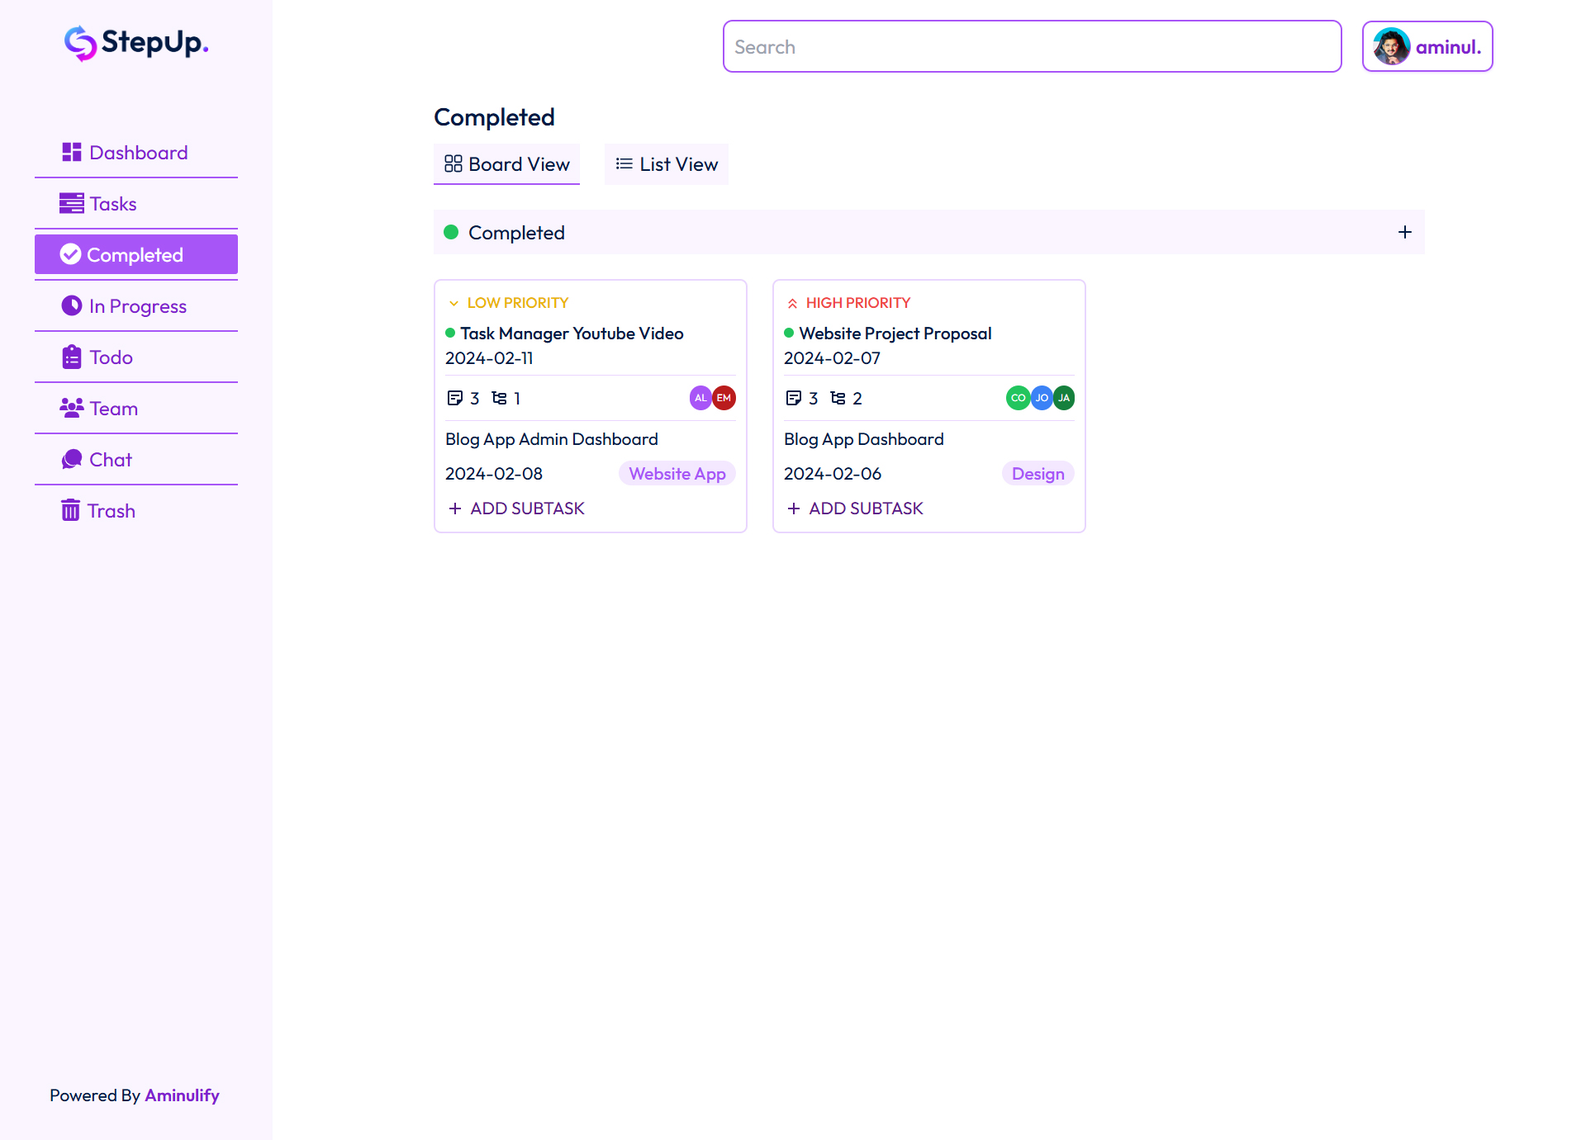
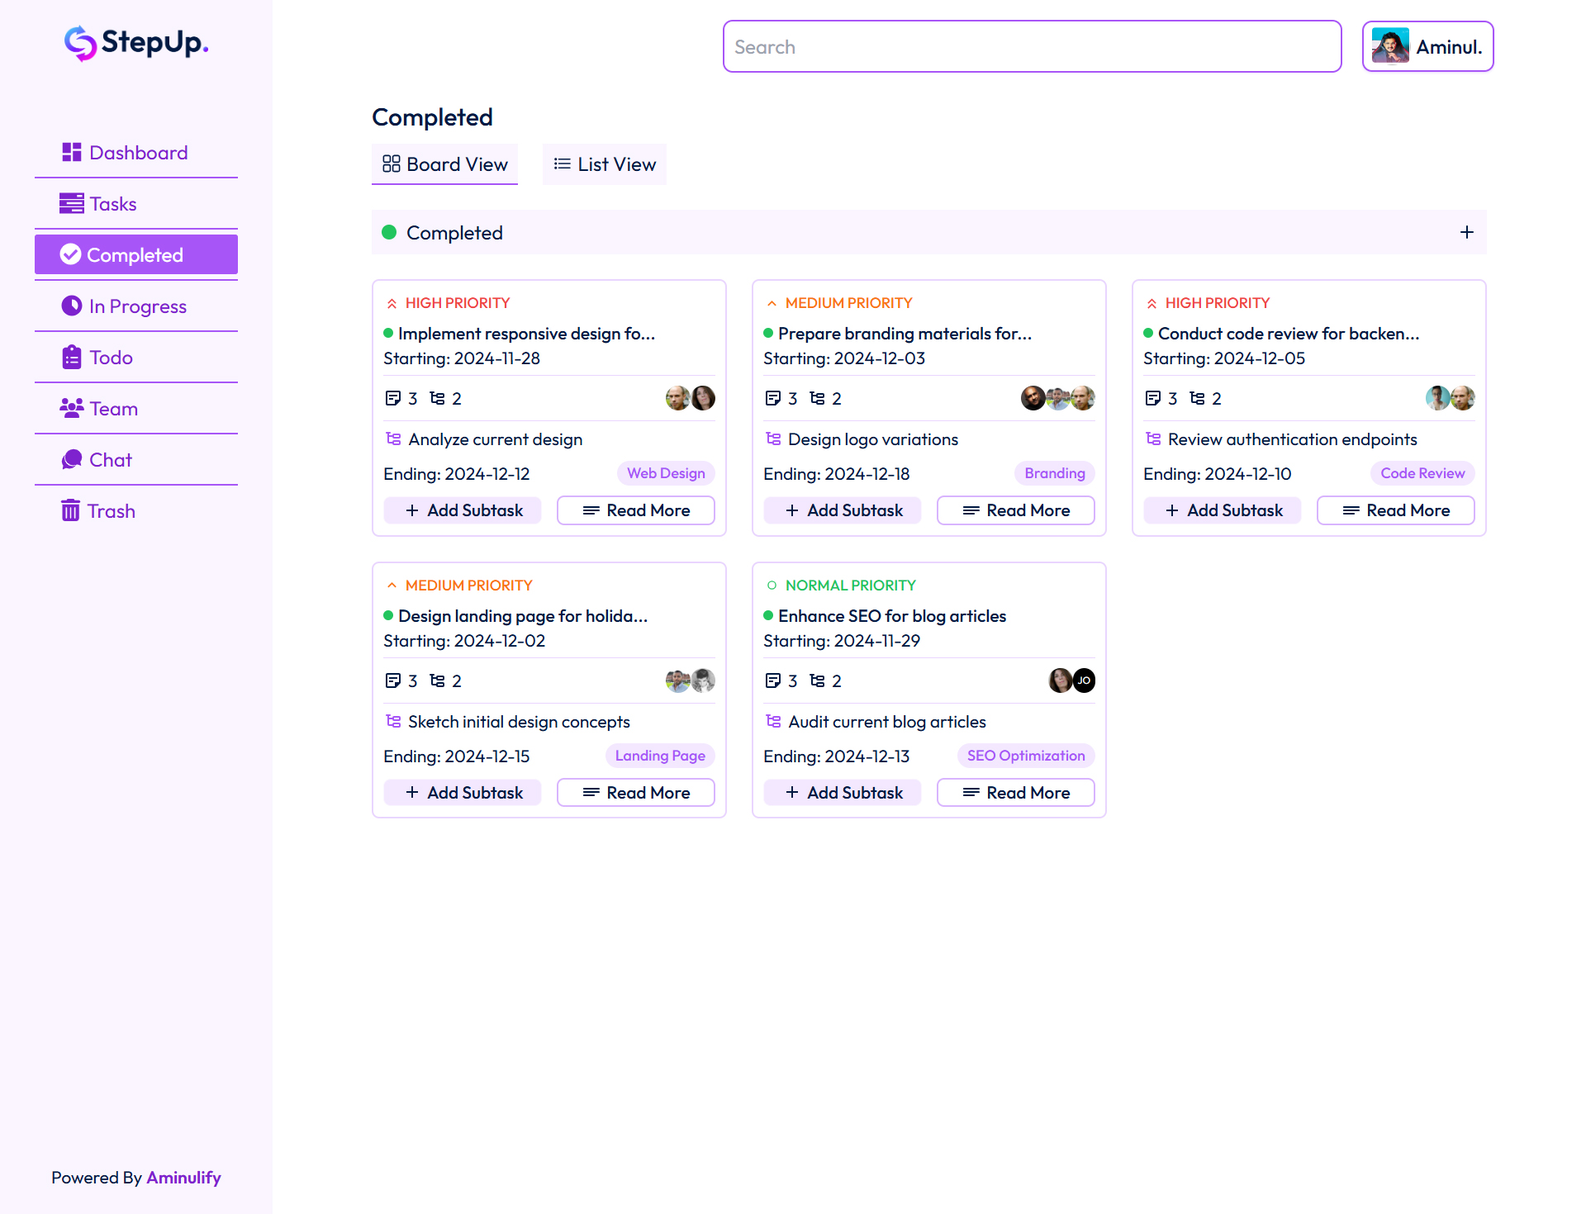
update stages and solve some ui lakes

diff --git a/client/src/Dashboard Pages/CreateTask.jsx b/client/src/Dashboard Pages/CreateTask.jsx
@@ -1,18 +1,83 @@
-import React, { useContext } from 'react';
+import React, { useContext, useEffect, useState } from 'react';
 import { AuthContext } from '../AuthProvider/AuthProvider';
+import axios from 'axios';
 
 const CreateTask = ({setModal}) => {
     const {user} = useContext(AuthContext);
-    console.log(user);
+    const [teamMember, setTeamMember] = useState([]);
+    const [selectEmail, setSelectEmail] = useState([]);
+    const [taskPrioirty, setTaskPrioirty] = useState('high');
+    const [taskStage, setTaskStage] = useState('todo');
+    console.log(selectEmail);
+    const [filteredTeamMemberEmail, setFilteredTeamMemberEmail] = useState([]);
+    // console.log(filteredTeamMemberEmail);
+
+    const handleCheckboxChange = (e) =>{
+        const {value, checked} = e.target;
+
+        // console.log(value, checked);
+
+        axios.get('http://localhost:3000/api/user-data')
+        .then(res => {
+            const data = res.data;
+            // console.log(data);
+            const teamMemberEmailFilter = data.filter(memberEmail => memberEmail.email === value);
+            setFilteredTeamMemberEmail(teamMemberEmailFilter);
+        })
+
+
+        if(checked){
+            const data = {_id: filteredTeamMemberEmail[0]._id, email: filteredTeamMemberEmail[0].email, username: filteredTeamMemberEmail[0].username, role: filteredTeamMemberEmail[0].role, imgURL: filteredTeamMemberEmail[0].imageURL || ''};
+            setSelectEmail([...selectEmail, data]);
+        }
+        else{
+            setSelectEmail(selectEmail.filter(option => option.email !== value))
+        }
+    }
+
+    const handleCreateTask = (e) =>{
+        e.preventDefault();
+        const form = e.target;
+        const title = form.title.value;
+        const startingDate = form.startingDate.value;
+        const endingDate = form.endingDate.value;
+        const noteText = [form.noteText.value];
+        const subTask = [form.subTask.value];
+        const tags = form.tags.value;
+        const prioirty = taskPrioirty;
+        const stage = taskStage;
+        const teamMember = selectEmail;
+        const adminEmail = user.email;
+        const description = form.description.value;
+
+        const value = {adminEmail, title, startingDate, endingDate, taskPrioirty: prioirty, notes: noteText, stage, teamMember, tags, description, subTasks: subTask};
+        console.log(value);
+    }
+
+    useEffect(()=>{
+        axios.get('http://localhost:3000/api/user-data')
+        .then(res => {
+            const data = res.data;
+            const teamFilter = data.filter(member => member.adminEmail === user.email);
+            if(teamFilter){
+                setTeamMember(teamFilter);
+            }
+        })
+        .catch(e => console.log(e))
+    },[])
     return (
         <section className='top-10 w-screen h-screen z-[40] fixed left-0 drop-shadow-xl shadow-purple-500'>
             
                 <div className='md:w-[500px] w-[90%] md:h-[500px] h-[650px] absolute left-[50%] translate-x-[-50%] text-[var(--primaryFontColor)] p-10 rounded-lg mt-5] bg-white overflow-y-auto mt-10'>
                     <h2 className='text-center font-bold text-2xl'>Create New Task</h2>
-                    <form className='flex flex-col gap-3 mt-2'>
+                    <form onSubmit={handleCreateTask} className='flex flex-col gap-3 mt-2'>
                         <div>
                             <label>Title:</label>
                             <input type="text" className='w-full p-2 outline-none border-[1.2px] border-purple-500 rounded-md' placeholder='Task title here' name="title" required/>
+                        </div>
+                        <div>
+                            <label>Description:</label>
+                            <textarea rows={3} className='w-full p-2 outline-none border-[1.2px] border-purple-500 rounded-md' placeholder='Task description here...' name="description" required/>
                         </div>
                         <div className='flex gap-5'>
                             <div>
@@ -27,22 +92,22 @@ const CreateTask = ({setModal}) => {
                         <div>
                         <label className=''>Task Priority:</label>
                             
-                            <select id="rangeSelect" className='w-full p-2 outline-none border-[1.2px] border-purple-500 rounded-md cursor-pointer'>
+                            <select id="rangeSelect" className='w-full p-2 outline-none border-[1.2px] border-purple-500 rounded-md cursor-pointer' onChange={e => setTaskPrioirty(e.target.value)}>
 
-                                <option value="Designer">High</option>
-                                <option value="Developer">Medium</option>
-                                <option value="Engineer">Normal</option>
-                                <option value="Manager">Low</option>
+                                <option value="high">High</option>
+                                <option value="medium">Medium</option>
+                                <option value="normal">Normal</option>
+                                <option value="low">Low</option>
                             
                         </select>
                         </div>
 
                         <div className='flex flex-col'>
                             <label>Stage:</label>
-                            <select className='w-full p-2 outline-none border-[1.2px] border-purple-500 rounded-md cursor-pointer'>
-                                <option value="">Todo</option>
-                                <option value="">In Progress</option>
-                                <option value="">Completed</option>
+                            <select className='w-full p-2 outline-none border-[1.2px] border-purple-500 rounded-md cursor-pointer' onChange={e => setTaskStage(e.target.value)}>
+                                <option value="todo">Todo</option>
+                                <option value="in-progress">In Progress</option>
+                                <option value="completed">Completed</option>
                             </select>
                         </div>
 
@@ -58,19 +123,32 @@ const CreateTask = ({setModal}) => {
 
                         <div>
                             <label>Tags</label>
-                            <input type="text" className='w-full p-2 outline-none border-[1.2px] border-purple-500 rounded-md' placeholder='Task Tag Here' name="Tags" required />
+                            <input type="text" className='w-full p-2 outline-none border-[1.2px] border-purple-500 rounded-md' placeholder='Task Tag Here' name="tags" required />
                         </div>
 
                         <div>
                             <label>Team Member</label>
-                            <select name="" id="">
+                        
                                 {/* todo  */}
-                            </select>
+                                {
+                                    teamMember.map((member, index) => (
+                                        <div key={index}>
+                                            <label className='items-center flex gap-1 py-0.5 font-medium text-slate-500'>
+                                                <input type='checkbox' className='accent-purple-500 p-1' value={member.email}
+                                                onChange={handleCheckboxChange}
+                                                />
+                                                {member.email}
+                                            </label>
+                                        </div>
+                                    ))
+                                }
+                                
+                            {/* </select> */}
                         </div>
                         
 
                         <div className='flex gap-3 mt-1'>
-                            <button type='submit' className={`bg-gradient-to-tr from-[var(--gradientFirstColor)] via-[var(--gradientSecondColor)] to-[var(--gradientThirdColor)] hover:bg-gradient-to-tl text-white duration-300 rounded-md w-[30%] py-2`}>Update</button>
+                            <button type='submit' className={`bg-gradient-to-tr from-[var(--gradientFirstColor)] via-[var(--gradientSecondColor)] to-[var(--gradientThirdColor)] hover:bg-gradient-to-tl text-white duration-300 rounded-md w-[30%] py-2`}>Create</button>
                             <button className='border-[1.3px] border-purple-500 rounded-md w-[30%] py-2' onClick={()=>{setModal(false)}}>Cancel</button>
                         </div>
                         

diff --git a/client/src/Components/ComponentDetailPage/TaskRouteDetails.jsx b/client/src/Components/ComponentDetailPage/TaskRouteDetails.jsx
@@ -1,6 +1,6 @@
 import axios from 'axios';
 import React, { useEffect, useState } from 'react';
-import { useParams } from 'react-router-dom';
+import { useNavigate, useParams } from 'react-router-dom';
 import DashboardNavbar from '../../Shared/DashboardNavbar';
 import { SlCalender } from "react-icons/sl";
 import Loading from '../../Shared/Loading';
@@ -9,12 +9,14 @@ import { GoDot, GoDotFill } from "react-icons/go";
 import { TbSubtask } from "react-icons/tb";
 import { FaRegEdit } from 'react-icons/fa';
 import { BiPlus } from 'react-icons/bi';
+import toast, { Toaster } from 'react-hot-toast';
 
 const TaskRouteDetails = () => {
     const id = useParams();
     const [taskDetails, setTaskDetails] = useState([]);
     const [loading, setLoading] = useState(false);
-    console.log(taskDetails.title)
+    // console.log(taskDetails.title)
+    const navigate = useNavigate();
 
     useEffect(()=>{
         setLoading(true);
@@ -22,9 +24,20 @@ const TaskRouteDetails = () => {
         .then(res => {
             setTaskDetails(res.data);
             setLoading(false);
+            
         })
         .catch(err => console.log(err))
     },[])
+
+    // update Patch stage 
+    const handleDetailsTaskDelete = (id) =>{
+        axios.patch(`http://localhost:3000/api/tasks/${id.id}`, {stage: 'delete'})
+        .then(res => {
+            toast.success('Delete Successfully!')
+            navigate(-1);
+        })
+        .catch(e => toast.error('Something went wrong!'))
+    }
 
     const ICONS = {
         high: <MdKeyboardDoubleArrowUp/>,
@@ -63,6 +76,8 @@ const TaskRouteDetails = () => {
     // console.log("data",taskDetails);
     return (
         <div className='md:flex'>
+            <Toaster />
+
             <div className='z-30 md:h-[980px] bg-purple-50'>
             <DashboardNavbar/>
             </div>
@@ -118,7 +133,7 @@ const TaskRouteDetails = () => {
                 
                 <div className='flex gap-3 mb-3 mt-5'>
                     <button className={`flex gap-1 items-center justify-center bg-gradient-to-tr from-[var(--gradientFirstColor)] via-[var(--gradientSecondColor)] to-[var(--gradientThirdColor)] hover:bg-gradient-to-tl text-white duration-300 rounded-md md:w-[20%] w-[40%] py-2`}><FaRegEdit /> Update</button>
-                    <button className='flex gap-1 items-center justify-center border-[1.3px] border-purple-500 rounded-md md:w-[20%] w-[40%] py-2 hover:border-red-500 hover:text-red-500 duration-300'><MdOutlineDeleteOutline className='text-lg' /> Delete</button>
+                    <button onClick={()=>handleDetailsTaskDelete(id)} className='flex gap-1 items-center justify-center border-[1.3px] border-purple-500 rounded-md md:w-[20%] w-[40%] py-2 hover:border-red-500 hover:text-red-500 duration-300'><MdOutlineDeleteOutline className='text-lg' /> Delete</button>
                 </div>
             </div> : <Loading></Loading>
             }

diff --git a/client/src/Components/DashboardResponsiveNav.jsx b/client/src/Components/DashboardResponsiveNav.jsx
@@ -29,17 +29,16 @@ const DashboardResponsiveNav = () => {
                         }
                     </div>
                     
-                    <div className='flex items-center gap-4'>
-                            <input type="search" className='md:w-[500px] w-[200px] border-[1.4px] p-2 rounded-lg bg-white border-purple-500 outline-none' placeholder="Search" />
-
+                    <div className='absolute right-[5%] md:right-[8%] md:mt-12 mt-0'>
                             <div className='bg-white shadow-sm shadow-purple-200 rounded-lg'>
                             {
-                                 user.photoURL ? <div className="flex gap-1 items-center px-2 py-[4.5px] border-[1.5px] border-purple-500 rounded-lg"><img src={user.photoURL} className='w-[30px] h-[30px] rounded-full object-center object-cover cursor-pointer' alt="" /> <span className="text-[16px] font-medium">{user?.displayName.slice(0,6)}.</span></div> : <div className="flex gap-1 items-center px-2 py-[4.5px] border-[1.5px] border-purple-500 rounded-lg"><div className='text-xl font-bold bg-purple-500 w-[30px] h-[30px] rounded-full text-white cursor-pointer flex justify-center items-center'>{user.displayName[0].toUpperCase()}</div> <span className="text-[16px] font-semibold text-purple-700">{user?.displayName.slice(0,6)}.</span></div>
+                                 user.photoURL ? <div className="flex gap-1 items-center px-3 py-[4.5px] border-[1.5px] border-purple-500 rounded-lg"><img src={user.photoURL} className='w-[30px] h-[30px] rounded-full object-center object-cover cursor-pointer' alt="" /> <span className="text-[16px] font-medium">{user?.displayName.slice(0,6)}.</span></div> : <div className="flex gap-1 items-center px-2 py-[4.5px] border-[1.5px] border-purple-500 rounded-lg"><div className='text-xl font-bold bg-purple-500 w-[30px] h-[30px] rounded-full text-white cursor-pointer flex justify-center items-center'>{user.displayName[0].toUpperCase()}</div> <span className="text-[16px] font-semibold text-purple-700">{user?.displayName.slice(0,6)}.</span></div>
                             }
                             </div>
                     </div>
                 </aside>
             </div>
+            
         </div>
     );
 };

diff --git a/client/src/Components/TaskListView.jsx b/client/src/Components/TaskListView.jsx
@@ -1,11 +1,13 @@
+import axios from 'axios';
 import React from 'react';
+import toast, { Toaster } from 'react-hot-toast';
 import { GoDot } from 'react-icons/go';
 import { MdKeyboardArrowDown, MdKeyboardArrowUp, MdKeyboardDoubleArrowUp, MdOutlineStickyNote2 } from 'react-icons/md';
 import { RiDeleteBinLine, RiEditBoxLine } from 'react-icons/ri';
 import { TbSubtask } from 'react-icons/tb';
 import { Link } from 'react-router-dom';
 
-const TaskListView = ({taskData}) => {
+const TaskListView = ({taskData, handleTask}) => {
 
     const ICONS = {
         high: <MdKeyboardDoubleArrowUp/>,
@@ -42,8 +44,20 @@ const TaskListView = ({taskData}) => {
         Editor: "bg-pink-700"
     }
 
+    // update Patch stage 
+    const handleDetailsTaskDelete = (id) =>{
+        // console.log(id)
+        axios.patch(`http://localhost:3000/api/tasks/${id}`, {stage: 'delete'})
+        .then(res => {
+            toast.success('Delete Successfully!');
+            handleTask();
+        })
+        .catch(e => console.log(e))
+    }
+
     return (
         <div className='p-2 border-[1px] rounded-md border-purple-500'>
+            <Toaster />
             <table className='w-full'>
                 
                     <thead>
@@ -111,7 +125,7 @@ const TaskListView = ({taskData}) => {
                                     </td>
                                     <td className='flex gap-1 py-2 justify-center'>
                                         <Link to={task._id} className='text-xl p-1 rounded-sm bg-purple-50 hover:bg-purple-200 cursor-pointer duration-300'><RiEditBoxLine/></Link>
-                                        <div className='text-xl p-1 rounded-sm bg-purple-50 hover:bg-purple-200 cursor-pointer duration-300'><RiDeleteBinLine/></div>
+                                        <div onClick={()=>handleDetailsTaskDelete(task._id)} className='text-xl p-1 rounded-sm bg-purple-50 hover:bg-purple-200 cursor-pointer duration-300'><RiDeleteBinLine/></div>
                                     </td>
                                 </tr>     
                         ))

diff --git a/client/src/Dashboard Pages/Task.jsx b/client/src/Dashboard Pages/Task.jsx
@@ -14,22 +14,25 @@ const Task = () => {
     const [task, setTask] = useState([]);
     const [loading, setLoading] = useState(false);
     const [modal, setModal] = useState(false);
-    console.log(task);
+    // console.log(task);
 
-
-    useEffect(()=>{
-        setLoading(true);
+    const handleTask = () =>{
         axios.get('http://localhost:3000/api/tasks')
         .then(res => {
             setTask(res.data);
             setLoading(false);
         })
         .catch(e => console.log(e))
+    }
+
+    useEffect(()=>{
+        setLoading(true);
+        handleTask();
     },[])
 
     // const task = summary.last10Task;
     const taskData = task.filter(data => data.stage !== "delete");
-    console.log("taskdata",task);
+    // console.log("taskdata",task);
     // console.log("taskNote",task.notes[0]);
 
     const handleBoardView = () =>{
@@ -50,7 +53,7 @@ const Task = () => {
             {
                 modal && <CreateTask setModal={setModal}/>
             }
-            <div className='md:my-20 my-5 text-[var(--primaryFontColor)] mx-5 md:w-[900px] md:mx-auto'>
+            <div className='md:my-20 my-5 text-[var(--primaryFontColor)] mx-6 md:w-[74%] md:mx-auto'>
              <header className='w-full flex justify-between items-center'>
                 <h2 className='text-xl font-medium'>Tasks</h2>
                 <button onClick={()=>setModal(true)} className='flex gap-1 items-center py-2 px-4 bg-purple-500 font-medium text-white rounded-md hover:bg-purple-600 duration-300'><FiPlus/> Create Task</button>
@@ -92,7 +95,7 @@ const Task = () => {
 
              {
                 listView ? <section>
-                <TaskListView taskData={taskData}/>
+                <TaskListView taskData={taskData} handleTask={handleTask}/>
              </section> : <section>
                 <TaskDetails taskData={taskData} loading={loading}/>
              </section>

diff --git a/client/src/Shared/DashboardNavbar.jsx b/client/src/Shared/DashboardNavbar.jsx
@@ -59,9 +59,9 @@ const DashboardNavbar = () => {
 
                         <hr className='border-[1px] border-purple-500 my-1 ' />
 
-                        <Link to="/user/team-chat"><li className={`py-1 my-1 rounded-sm hover:text-white hover:bg-purple-500 duration-300 cursor-pointer px-5 flex gap-1 items-center ${location.pathname == "/user/team-chat" && "bg-purple-500 text-white"}`}><IoIosChatbubbles className="text-[20px] md:text-xl"/> <div className="">Chat</div></li></Link>
+                        {/* <Link to="/user/team-chat"><li className={`py-1 my-1 rounded-sm hover:text-white hover:bg-purple-500 duration-300 cursor-pointer px-5 flex gap-1 items-center ${location.pathname == "/user/team-chat" && "bg-purple-500 text-white"}`}><IoIosChatbubbles className="text-[20px] md:text-xl"/> <div className="">Chat</div></li></Link> */}
 
-                        <hr className='border-[1px] border-purple-500 my-1 ' />
+                        {/* <hr className='border-[1px] border-purple-500 my-1 ' /> */}
 
                         <Link to="/user/trash"><li className={`py-1 my-1 rounded-sm hover:text-white hover:bg-purple-500 duration-300 cursor-pointer px-5 flex gap-1 items-center ${location.pathname == "/user/trash" && "bg-purple-500 text-white"}`}><FaTrashCan  className="text-[20px] md:text-lg"/> <div className="">Trash</div></li></Link>
                     </aside>

diff --git a/client/src/Page/ProjectPreview/ProjectPreview.jsx b/client/src/Page/ProjectPreview/ProjectPreview.jsx
@@ -76,7 +76,7 @@ const ProjectPreview = () => {
                             <MdAddTask />
                             
                         </div>
-                        <p className='text-sm font-semibold mt-1 md:block hidden'>Task</p>
+                        <p className='text-sm font-semibold mt-1 md:block hidden'>Tasks</p>
                     </aside>
                     <aside className='text-center flex flex-col'>
                         <div onClick={handleProgress} className={`text-2xl md:text-4xl md:h-[70px] h-[50px] md:w-[70px] w-[50px] flex justify-center items-center rounded-lg border-[2px] hover:text-purple-500 hover:border-purple-500 duration-300 cursor-pointer ${progress ? "text-purple-500 border-purple-500":"border-[var(--primaryFontColor)]"}`}>

diff --git a/client/src/Dashboard Pages/Progress.jsx b/client/src/Dashboard Pages/Progress.jsx
@@ -43,7 +43,7 @@ const Task = () => {
             <div className='z-30 md:h-[980px] bg-purple-50'>
             <DashboardNavbar/>
             </div>
-            <div className='md:my-20 my-5 text-[var(--primaryFontColor)] mx-5 md:w-[900px] md:mx-auto'>
+            <div className='md:my-20 my-5 text-[var(--primaryFontColor)] mx-6 md:w-[74%] md:mx-auto'>
              <header className='w-full'>
                 <h2 className='text-xl font-medium'>In Progress</h2>
              </header>

diff --git a/client/src/Dashboard Pages/Completed.jsx b/client/src/Dashboard Pages/Completed.jsx
@@ -42,7 +42,7 @@ const Task = () => {
             <div className='z-30 md:h-[980px] bg-purple-50'>
             <DashboardNavbar/>
             </div>
-            <div className='md:my-20 my-5 text-[var(--primaryFontColor)] mx-5 md:w-[900px] md:mx-auto'>
+            <div className='md:my-20 my-5 text-[var(--primaryFontColor)] mx-6 md:w-[74%] md:mx-auto'>
              <header className='w-full'>
                 <h2 className='text-xl font-medium'>Completed</h2>
              </header>

diff --git a/client/src/Dashboard Pages/Todo.jsx b/client/src/Dashboard Pages/Todo.jsx
@@ -41,7 +41,7 @@ const Task = () => {
             <div className='z-30 md:h-[980px] bg-purple-50'>
             <DashboardNavbar/>
             </div>
-            <div className='md:my-20 my-5 text-[var(--primaryFontColor)] mx-5 md:w-[900px] md:mx-auto'>
+            <div className='md:my-20 my-5 text-[var(--primaryFontColor)] mx-6 md:w-[74%] md:mx-auto'>
              <header className='w-full'>
                 <h2 className='text-xl font-medium'>TODO</h2>
              </header>

diff --git a/server/models/TaskModal.js b/server/models/TaskModal.js
@@ -39,7 +39,7 @@ const TaskSchema = new mongoose.Schema({
     taskPrioirty: {
         type: String,
         required: true,
-        default: "Normal",
+        default: "high",
     },
     notes: {
         type: [String],
